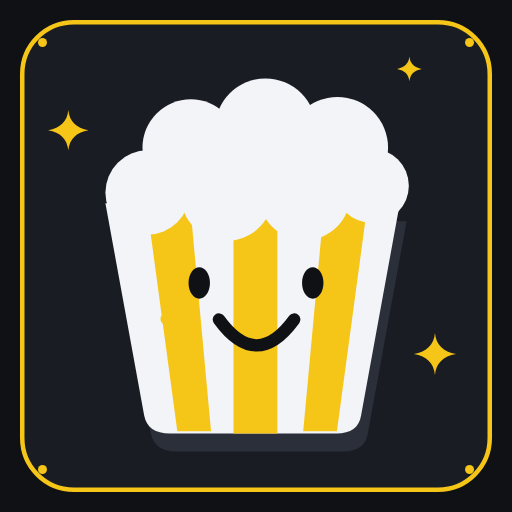
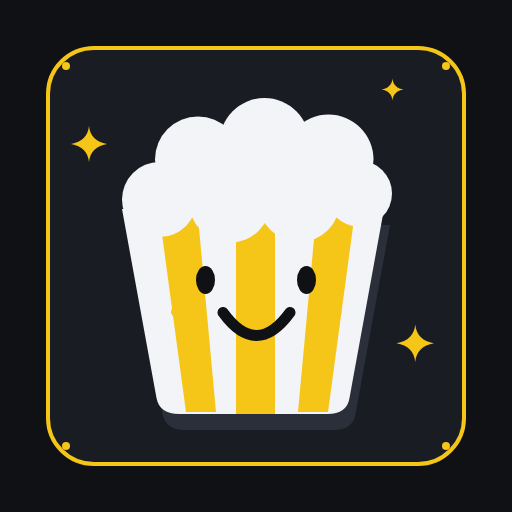
Sync AppIcon with Figma: inset marquee surface and smaller artwork (#22)
Re-renders the favicon, apple-touch and manifest icons from the updated
AppIcon component (node 303:17) and bumps the icon URLs to ?v=3.

Claude-Session: https://claude.ai/code/session_01RJQdQjJ4KLkYYT6mvHkc7F

Changed region(s): [[0.0312, 0.0312, 0.9688, 0.9688], [0.75, 0.1562, 0.7812, 0.1875], [0.625, 0.4375, 0.6562, 0.4688]]

diff --git a/index.html b/index.html
@@ -4,11 +4,11 @@
     <meta charset="UTF-8" />
     <meta name="viewport" content="width=device-width, initial-scale=1, viewport-fit=cover" />
     <title>Movie Night</title>
-    <link rel="icon" href="/favicon.ico?v=2" sizes="48x48 32x32 16x16" />
-    <link rel="icon" href="/favicon-32.png?v=2" type="image/png" sizes="32x32" />
-    <link rel="icon" href="/favicon.svg?v=2" type="image/svg+xml" />
-    <link rel="apple-touch-icon" href="/apple-touch-icon.png?v=2" />
-    <link rel="manifest" href="/manifest.webmanifest?v=2" />
+    <link rel="icon" href="/favicon.ico?v=3" sizes="48x48 32x32 16x16" />
+    <link rel="icon" href="/favicon-32.png?v=3" type="image/png" sizes="32x32" />
+    <link rel="icon" href="/favicon.svg?v=3" type="image/svg+xml" />
+    <link rel="apple-touch-icon" href="/apple-touch-icon.png?v=3" />
+    <link rel="manifest" href="/manifest.webmanifest?v=3" />
     <meta name="apple-mobile-web-app-title" content="Movie Night" />
     <meta name="theme-color" content="#0f1115" media="(prefers-color-scheme: dark)" />
     <meta name="theme-color" content="#f7f8fa" media="(prefers-color-scheme: light)" />
